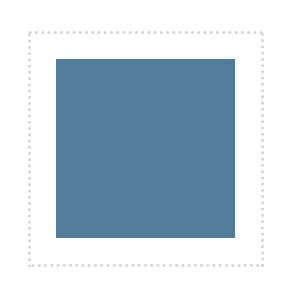
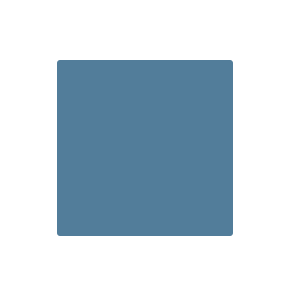
Fix meta tags

diff --git a/_includes/header.html b/_includes/header.html
@@ -6,7 +6,7 @@
 <link href='/stylesheets/style.css' rel='stylesheet' type='text/css' />
 <link href='/stylesheets/font-awesome.min.css' rel='stylesheet' type='text/css' />
 <link href='http://fonts.googleapis.com/css?family=Merriweather:400,300' rel='stylesheet' type='text/css' />
-<link rel="shortcut icon" href="/images/fav.png"/>
+<link rel="shortcut icon" href="images/fav.png"/>
 <script src='/javascripts/jquery.js' type='text/javascript'></script>
 <script src='/javascripts/codemirror.js' type='text/javascript'></script>
 <script src='/javascripts/javascript-cm.js' type='text/javascript'></script>
@@ -18,7 +18,7 @@
 <script type="text/javascript" src="http://w.sharethis.com/button/buttons.js"></script>
 <script type="text/javascript" src="https://apis.google.com/js/plusone.js"></script>
 <script type="text/javascript">stLight.options({publisher: "bb89c410-08b4-4ad3-aa5d-3f5b57488987", doNotHash: false, doNotCopy: false, hashAddressBar: false});</script>
-<meta property="og:image" content="/images/icon.png"/>
+<meta property="og:image" content="http://robertheaton.com/images/icon.png"/>
 <meta property="og:image:width" content="300" />
 <meta property="og:image:height" content="300" />
 <script>(function(d, s, id) {

diff --git a/_layouts/post.html b/_layouts/post.html
@@ -1,9 +1,9 @@
 <html>
   <head>
     <title>{{ page.title }} | Robert Heaton</title>
+    {% include header.html %}
+    {% include ga.html %}
   </head>
-  {% include header.html %}
-  {% include ga.html %}
   <body>
     <div id="fb-root"></div>
     {% include navbar.html %}

diff --git a/_assets/style.scss b/_assets/style.scss
@@ -22,6 +22,7 @@ header {
   width: 300px;
   height: 150px;
   border: 1px dotted #e6e6e7;
+  border-radius: 3px;
   margin: 50px auto;
   @include box-sizing(border-box);
   @include transition(all, 0.3s);

diff --git a/stylesheets/style.css b/stylesheets/style.css
@@ -21,6 +21,7 @@ header {
   width: 300px;
   height: 150px;
   border: 1px dotted #e6e6e7;
+  border-radius: 3px;
   margin: 50px auto;
   -webkit-box-sizing: border-box;
   -moz-box-sizing: border-box;
